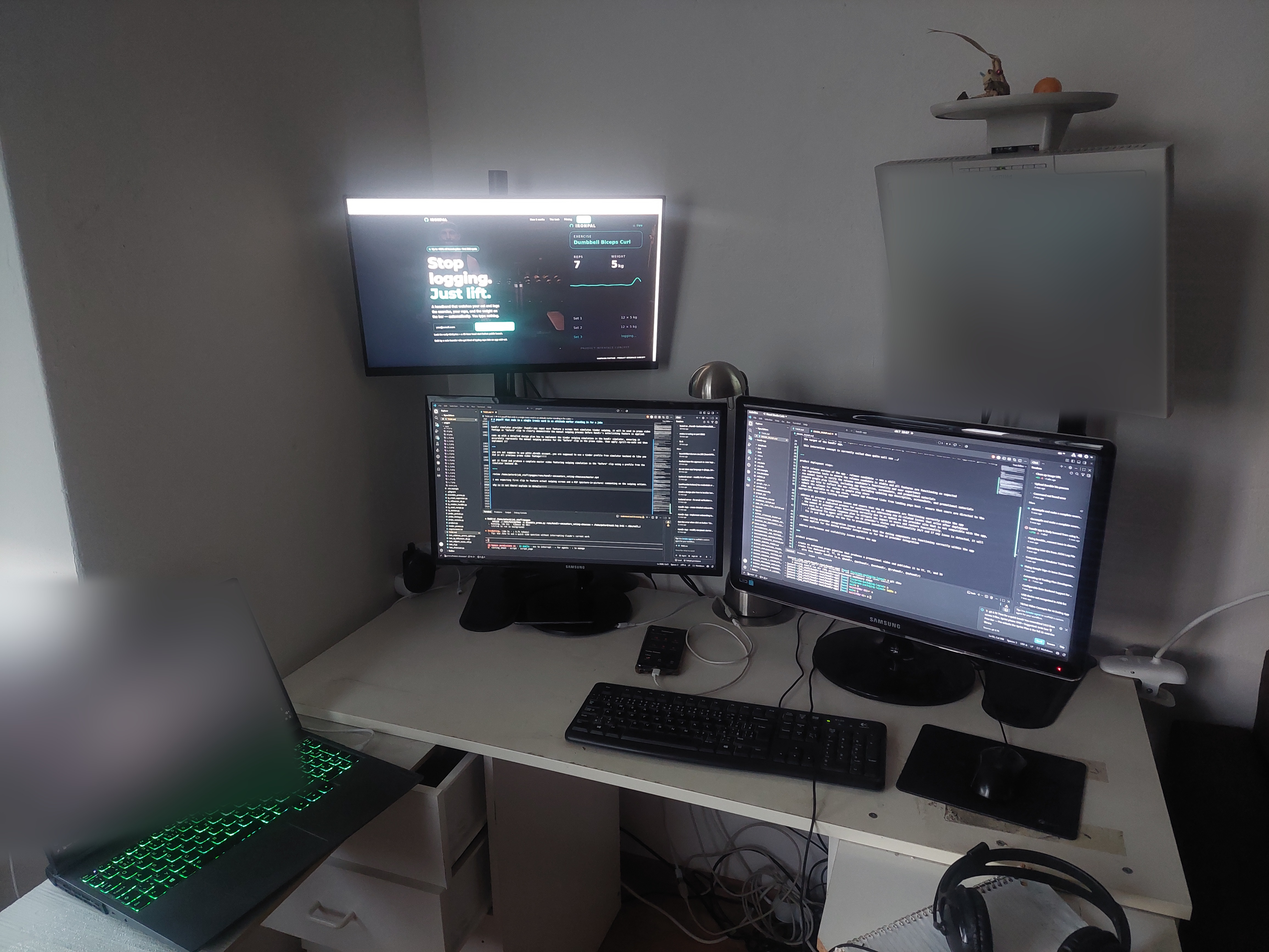
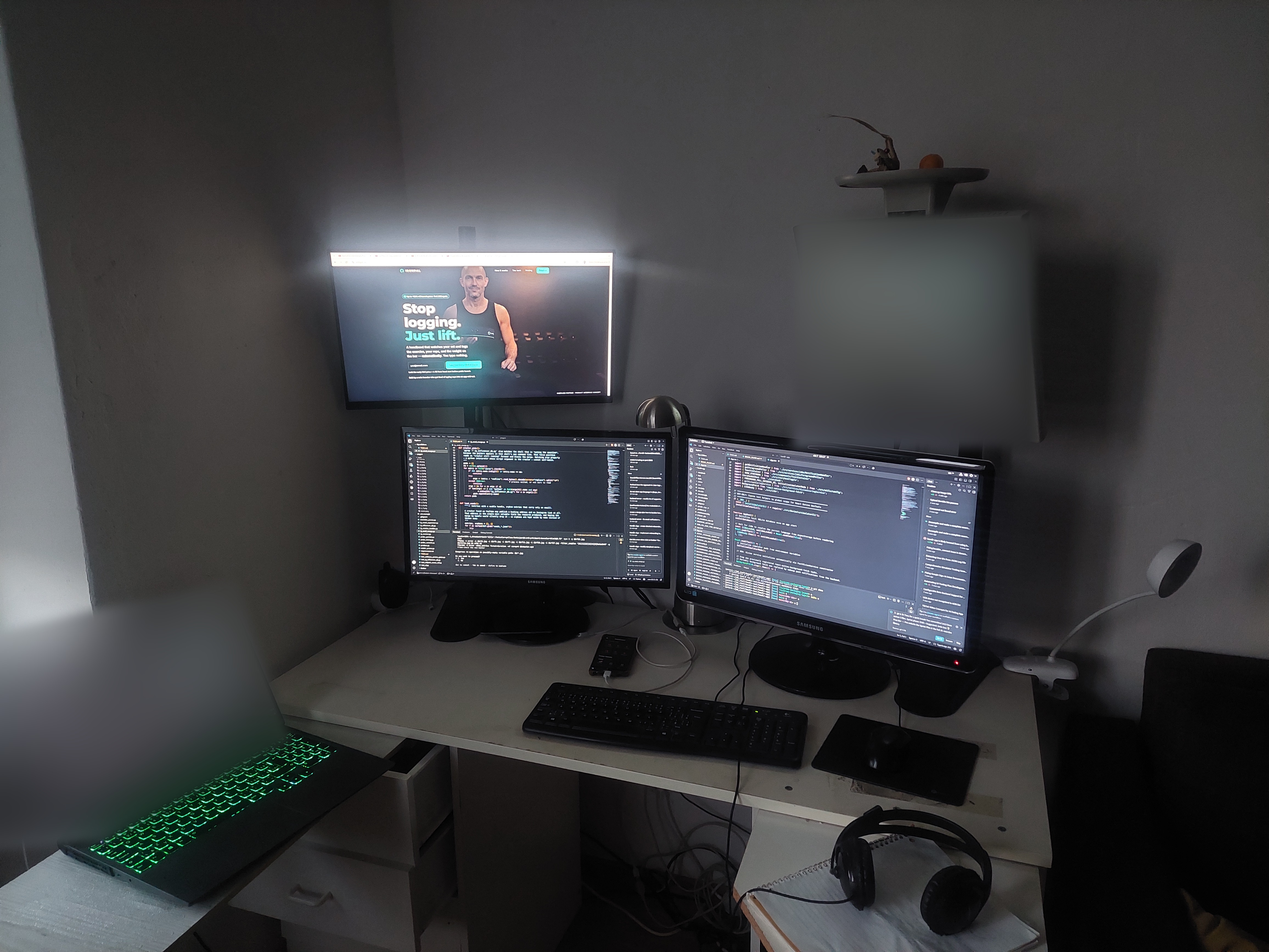
docs(video): K5/K6 lab reference from the founder's updated photo
Same corner, reframed: blur masks re-measured, the Flow reference and the
K6 establishing still regenerated from the 18:17 photo.

diff --git a/scripts/k5k6/blur_lab.py b/scripts/k5k6/blur_lab.py
@@ -1,6 +1,6 @@
 """Blur every screen in the founder's lab photo so Flow gets the room without legible text.
 
-The original (input/kickstarter/k5k6/lab_reference.jpg, A52, 2026-10-07) shows code, a terminal
+The original (input/kickstarter/k5k6/lab_reference.jpg, A52, 2026-10-07 18:17) shows code, a terminal
 and the landing page. Flow either garbles legible text into pseudo-text or paints a fake app, so the
 reference it gets has each screen blurred to a glow, then cropped to 16:9 at 1920x1080.
 Masks are in 1600-px-wide preview coordinates, scaled to the source. See
@@ -14,15 +14,16 @@ OUT_FLOW = os.path.join(D, "lab_reference_flow_16x9.jpg")
 from PIL import Image, ImageOps, ImageFilter, ImageDraw
 im=ImageOps.exif_transpose(Image.open(IN)).convert('RGB')
 W,H=im.size; s=W/1600
-rects=[(430,240,845,475),(1115,215,1470,525),(535,495,920,725),(925,500,1405,835)]
-lap=[(0,730),(310,725),(395,1000),(80,1075),(0,1085)]
+# masks for the 2026-10-07 18:17 photo (20261007_181724.jpg); re-measure if the photo changes
+rects=[(405,305,785,520),(1000,270,1305,565),(500,535,855,750),(852,540,1260,835)]
+lap=[(0,795),(300,728),(368,935),(130,1060),(0,1070)]
 blur=im.filter(ImageFilter.GaussianBlur(int(40*s)))
 mask=Image.new('L',im.size,0); d=ImageDraw.Draw(mask)
 for r in rects: d.rectangle([int(v*s) for v in r],fill=255)
 d.polygon([(int(x*s),int(y*s)) for x,y in lap],fill=255)
 mask=mask.filter(ImageFilter.GaussianBlur(int(6*s)))
 out=Image.composite(blur,im,mask); out.save(OUT_BLUR,quality=92)
-ch=int(W*9/16); top=min(int(150*s),H-ch)
+ch=int(W*9/16); top=min(int(230*s),H-ch)
 fl=out.crop((0,top,W,top+ch)).resize((1920,1080),Image.LANCZOS); fl.save(OUT_FLOW,quality=92)
 
 # The B-roll still for K6 shot 1b: the ORIGINAL room, real screens kept, with only the wall

diff --git a/docs/K5_K6_build_clips_design_plan.md b/docs/K5_K6_build_clips_design_plan.md
@@ -66,7 +66,8 @@ like the gym. So:
 
 The founder set the locations on 2026-10-07 — **K5: assembling the MVP hardware in the lab; K6:
 coding and testing the software** — and then supplied the room: **one photo of his real workspace,
-used for both clips** (`input/kickstarter/k5k6/lab_reference.jpg`, the A52, 2026-10-07 18:07). It is
+used for both clips** (`input/kickstarter/k5k6/lab_reference.jpg`, the A52, 2026-10-07 18:17 — the founder's updated photo,
+replacing an 18:07 shot of the same corner). It is
 a white-walled corner with a white desk under **five lit screens** — two Samsung monitors side by
 side, one above them on an arm, a fourth on the wall to the right, and a laptop with a green-backlit
 keyboard on the left — a desk lamp, a black keyboard and mouse mat, a phone, cables, and cool daylight
@@ -78,7 +79,8 @@ That puts generated screens in frame in both clips, and generated electronics in
 §2 forbids being *presented as the product*. Five rules keep it honest:
 
 1. **Flow gets a blurred copy of the photo, never the original.** The real screens are full of
-   legible text: code, a terminal, and the IronPal landing page with its *Live set* concept panel.
+   legible text: code, a terminal, and the IronPal landing page's hero, with its
+   *Stop logging. Just lift.* headline and the founder's image.
    Handed that, Flow either reproduces it as garbled pseudo-text or paints a fake app. The reference
    is `input/kickstarter/k5k6/lab_reference_flow_16x9.jpg`: every screen is blurred to a glow with
    nothing legible, and the frame is cropped to 16:9 at 1920×1080. `scripts/k5k6/blur_lab.py` builds
@@ -103,8 +105,8 @@ That puts generated screens in frame in both clips, and generated electronics in
 the founder's actual desk, the actual code. For that use the **original** goes in, with one change:
 the right-hand wall monitor's terminal shows local paths and another project's logs, so it is blurred
 for privacy, and so is the laptop's session. That file is `input/kickstarter/k5k6/lab_broll_still.jpg`,
-built by the same script. The two code monitors and the landing-page monitor, which carries its
-*Product interface concept* label, stay as they are.
+built by the same script. The two code monitors and the landing-page monitor stay as they are: the
+site is public, and its hero image is the same generated founder the film already shows.
 
 **The consequence for K7.** The reveal's inset is the AI product still (`S3/selected.jpg`), and it
 now follows two clips of real prototype. **It needs a `DESIGN RENDER` chip** or the cut implies the

diff --git a/docs/K5_K6_build_clips_design_plan_grilled.md b/docs/K5_K6_build_clips_design_plan_grilled.md
@@ -62,7 +62,9 @@ once he was seated. **EVIDENCE** — `Peter Pitch` is the waist-up variant K2 an
 band before it would also breach Q6.
 
 **Q11. Where are they set?** **Both in the founder's real lab** — K5 assembling the hardware, K6
-coding and testing — one room, from one photo he supplied (`input/kickstarter/k5k6/lab_reference.jpg`).
+coding and testing — one room, from one photo he supplied (`input/kickstarter/k5k6/lab_reference.jpg`; replaced by
+his updated shot of the same corner at 18:17 the same day, masks in `scripts/k5k6/blur_lab.py`
+re-measured to match).
 **EVIDENCE** — the founder's direction, 2026-10-07 (TASK.md, two entries: first lab and office, then
 *"use it in both K5 and K6"*). *Superseded twice:* first both in the gym, then a separate lab and
 office; Branch G is how the room keeps Q6's protection.
